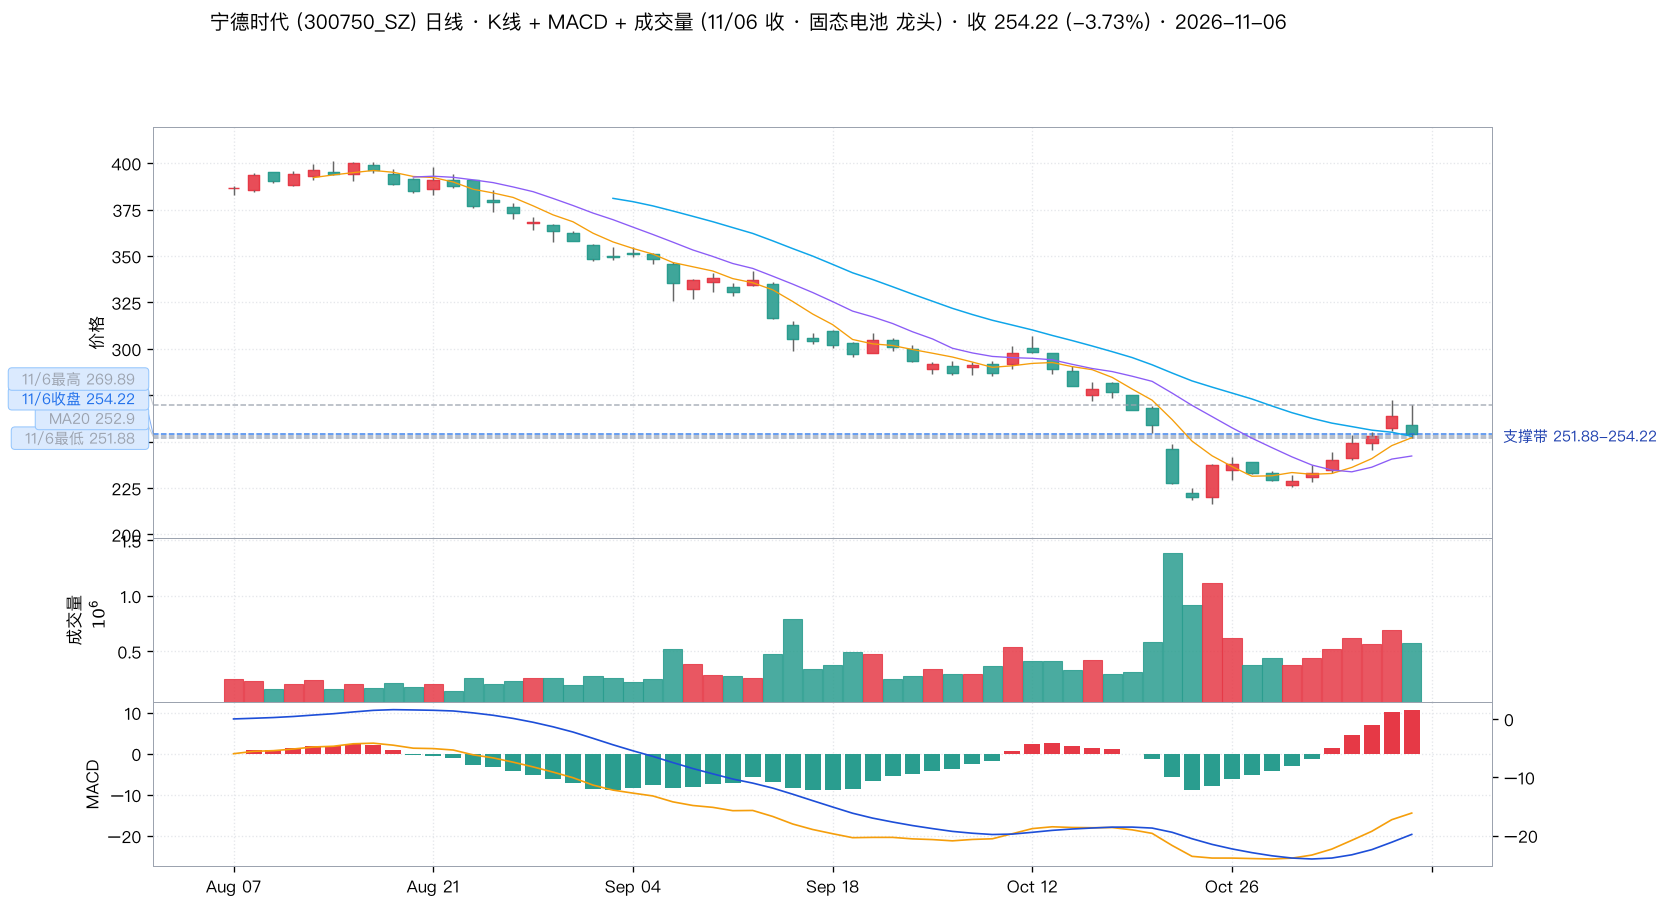
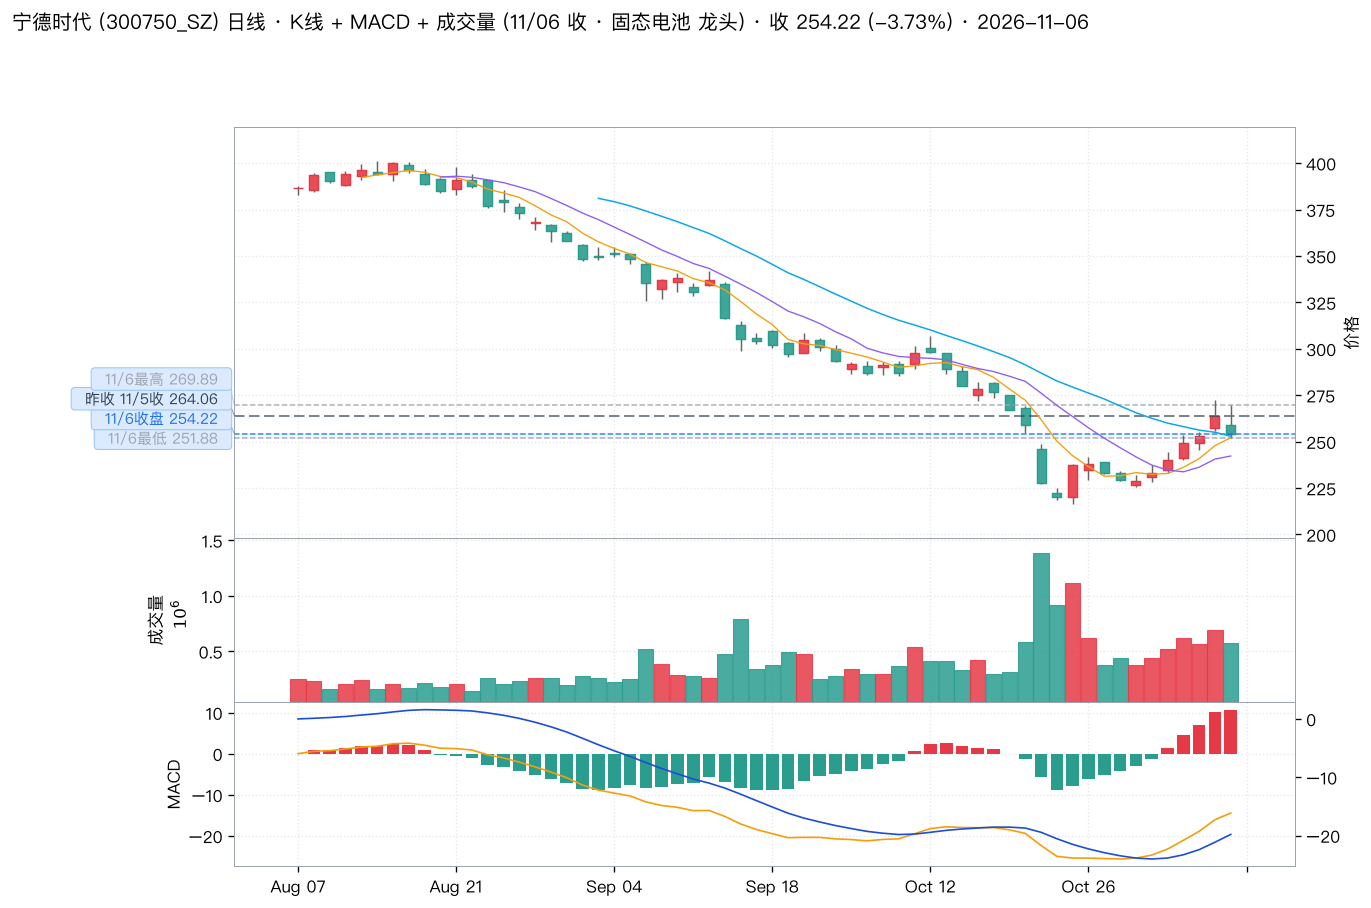
fix(图表): 补昨收参考线 + 低开高走标注，修正 K 线红绿误读
问题：上证图最后一根 K 线是红色，但当日 -1.10%，读者认为不符合红涨绿跌。

诊断（已用像素级标定复核，非配色 bug）
- 11/06 沪指开 3612.15 → 收 3649.18，**收 > 开，属阳线，红色正确**
  实体上下沿经水平虚线标定反推为 3648.57 / 3611.77，与真实 close/open 吻合（误差 < 0.6 点）
- 红涨绿跌的判定基准是「收 vs 开」，而「日涨跌幅」是「收 vs 昨收」，
  两者口径不同 ⇒ 低开高走日必然出现「日跌但 K 线红」
- 6 张图 K 线与成交量柱颜色全部复核通过，与 open/close 一致

根因是标注缺失：4 张图没画昨收线，读者看不到跳空缺口，
才会把低开高走的阳线误读成「当天在涨」。

修复
- 全部 6 张图补「昨收」点划线（深石板灰 #334155，与 MA5橙/MA10紫/MA20天蓝不冲突）
- 低开高走日自动加橙色标注框：「低开高走 收>X 但较昨收 -Y%」+ 箭头指向末根 K 线
- 主图价格刻度移到右侧（A股行情软件惯例），左侧只留给关键点位标签，
  解决标签压住 Y 轴刻度数字的问题
- 去掉冗余的 MA20 水平虚线（MA20 已是叠加曲线），删除会压住 K 线的支撑带文字
  （支撑带底纹保留，上下沿已在左侧标签中标注）
- draw_levels 支持 (文字, 颜色, 线型) 三元组

报告
- 第二节新增「先读懂这两张图的颜色口径」说明：红绿基准 = 收 vs 开，
  日涨跌幅 = 收 vs 昨收，并拿 11/06 沪指举例说明「日跌但 K 线红」
- 6 张图 caption 补昨收点位说明

校验
- 新增 scripts/check_kline_colors_20261108.py：逐图取最右实体像素颜色，
  与 Tushare open/close 交叉比对，6 张图 K 线 + 量柱全部 ✅
- HTML 标签闭合无异常，浏览器实测渲染正常

diff --git a/2026-11-08-wu2198-investment-report.html b/2026-11-08-wu2198-investment-report.html
@@ -226,10 +226,21 @@
 
 <h2>二、大盘与个股关键点位（K 线 + MACD + 成交量）</h2>
 
-<p class="meta">
-  关键点位已在 K 线图 <b>左侧以虚线标注</b>（📌 博主相关位 / 支撑位 / 均线位），
-  技术位（MA5/MA10/MA20）以细灰虚线叠加。K 线、成交量柱、MACD 柱均为 <b>A 股惯例：红涨绿跌</b>。
-</p>
+<div class="panel">
+  <h3 style="margin-top:0">📖 先读懂这两张图的颜色口径</h3>
+  <ul class="tight" style="margin-bottom:0">
+    <li><b>红涨绿跌的判定基准是「收盘价 vs 开盘价」（阳线 / 阴线），不是「收盘价 vs 昨收」</b>。
+      收 ≥ 开 = <b style="color:var(--bear)">阳线（红）</b>，收 &lt; 开 = <b style="color:var(--bull)">阴线（绿）</b>。
+      K 线、成交量柱、MACD 柱三处统一按此口径着色。</li>
+    <li><b>「日涨跌幅」是另一套口径</b>（收盘 vs 昨收），它决定涨跌数字本身，<b>不决定 K 线颜色</b>。
+      所以完全可能出现「<b>日跌但 K 线是红的</b>」—— 11/06 就是典型：
+      沪指开 3612.15 低开 -2.11%，收 3649.18，<b>收 &gt; 开故为阳线（红）</b>，
+      但相对昨收 3689.91 仍跌 <b>-1.10%</b>。这类「低开高走」日已用<b>橙色点划线标出昨收</b>，
+      并在图上直接标注，避免误读成「当天在涨」。</li>
+    <li>关键点位在 K 线图 <b>左侧以虚线标注</b>（📌 博主相关位 / 支撑位 / 昨收位），
+      MA5/MA10/MA20 为叠加曲线。<b>价格刻度移到右侧</b>，左侧只留给关键点位标签。</li>
+  </ul>
+</div>
 
 <h3>🟡 上证指数 · 000001.SH</h3>
 <div class="grid-4">
@@ -243,7 +254,7 @@
   但收盘 3649.18 未能站回 MA5 3654.28（差 5.10 点），MACD 柱 +10.76 虽为正、DIF 仍在零轴下方。
 </div>
 <img class="chart" src="/charts/000001_SH_20261108.png" alt="上证指数 000001.SH 日线 K线 + MACD + 成交量">
-<p class="chart-caption">关键点位：11/6 收盘 3649.18（博主 15:05 报「收在3649点」分毫不差）· 11/6 最低 3610.20 · 整数关口 3600.00 · 60D 低 3574.27 · MA20 3693.30</p>
+<p class="chart-caption">关键点位：<b>昨收 3689.91</b>（橙色点划线，11/06 低开 -2.11% 的跳空缺口基准）· 11/6 收盘 3649.18（博主 15:05 报「收在3649点」分毫不差）· 11/6 最低 3610.20 · 整数关口 3600.00 · 60D 低 3574.27 · MA20 3693.30</p>
 
 <h3>🔴 创业板指 · 399006.SZ</h3>
 <div class="grid-4">
@@ -257,7 +268,7 @@
   高成长赛道对外围冲击最敏感 —— 博主推荐的<b>端侧 + 算力租赁两条线当天全部被砸</b>。
 </div>
 <img class="chart" src="/charts/399006_SZ_20261108.png" alt="创业板指 399006.SZ 日线 K线 + MACD + 成交量">
-<p class="chart-caption">关键点位：11/6 收盘 2465.23 · 11/6 最低 2438.72 · 11/6 最高 2506.97 · MA20 2648.26</p>
+<p class="chart-caption">关键点位：<b>昨收 2566.80</b>（橙色点划线；开盘即全天最低 2438.72，跳空 -5.0%）· 11/6 最高 2506.97 · 11/6 收盘 2465.23 · 11/6 最低 2438.72 · MA20 2648.26</p>
 
 <h3>🟡 沪深300 · 000300.SH</h3>
 <div class="grid-4">
@@ -271,7 +282,7 @@
   <b>距 60D 低 3958.14 仅 -2.37%</b> —— 权重护盘弹药接近打光。
 </div>
 <img class="chart" src="/charts/000300_SH_20261108.png" alt="沪深300 000300.SH 日线 K线 + MACD + 成交量">
-<p class="chart-caption">关键点位：11/6 收盘 4054.28 · 11/6 最低 4013.79 · 11/6 最高 4069.07 · 整数关口 4100.00 · MA20 4112.86</p>
+<p class="chart-caption">关键点位：<b>昨收 4113.41</b>（橙色点划线）· 11/6 最高 4069.07 · 11/6 收盘 4054.28 · 11/6 最低 4013.79 · 整数关口 4100.00 · MA20 4112.86</p>
 
 <h3>🟢 科创50 · 000688.SH（补充）</h3>
 <p>11/06 收 <b class="down">1253.20（-2.60%）</b>，开 1221.67 / 高 1288.38 / 低 1219.53。
@@ -416,7 +427,7 @@
   动能仍在上行，是三条线里<b>唯一 MACD 零轴上方的标的</b>。成交 26.0 亿（前日 10.9 亿，<b>放量 2.4 倍</b>）。
 </div>
 <img class="chart" src="/charts/002929_SZ_20261108.png" alt="润建股份 002929.SZ 日线 K线 + MACD + 成交量">
-<p class="chart-caption">关键点位：11/6 收盘 2 板 63.11 · 11/6 最低 59.20 · 11/5 收盘 1 板 57.37 · MA20 51.05</p>
+<p class="chart-caption">关键点位：11/6 收盘 2 板 63.11 · 11/6 最低 59.20 · <b>昨收 57.37</b>（11/5 一板价，橙色点划线）· MA20 51.05</p>
 
 <h3>🟡 宁德时代 300750.SZ —— 固态电池龙头 · 位置最低</h3>
 <div class="grid-4">
@@ -430,7 +441,7 @@
   <b>距 60D 高 400.99 还有 -36.6% 空间，是三条线里位置最低、赔率最厚的。</b>
 </div>
 <img class="chart" src="/charts/300750_SZ_20261108.png" alt="宁德时代 300750.SZ 日线 K线 + MACD + 成交量">
-<p class="chart-caption">关键点位：11/6 收盘 254.22 · 11/6 最低 251.88 · 11/6 最高 269.89 · MA20 252.90</p>
+<p class="chart-caption">关键点位：<b>昨收 264.06</b>（橙色点划线）· 11/6 最高 269.89 · 11/6 收盘 254.22 · 11/6 最低 251.88 · MA20 252.90</p>
 
 <h3>🟡 芯原股份 688521.SH —— 端侧AI · 已破位，对照组</h3>
 <div class="grid-4">
@@ -445,7 +456,7 @@
   成交 25.2 亿放量下跌 —— <b>结构破坏，不参与</b>。
 </div>
 <img class="chart" src="/charts/688521_SH_20261108.png" alt="芯原股份 688521.SH 日线 K线 + MACD + 成交量">
-<p class="chart-caption">关键点位：11/6 收盘 105.30 · 11/6 最低 104.61 · 11/6 最高 111.61 · 11/5 收盘新高 113.00</p>
+<p class="chart-caption">关键点位：<b>昨收 113.00</b>（11/5 收盘新高，橙色点划线）· 11/6 最高 111.61 · 11/6 收盘 105.30 · 11/6 最低 104.61 · MA20 117.96</p>
 
 <div class="divider"></div>
 

diff --git a/scripts/gen_wu2198_report_20261108.py b/scripts/gen_wu2198_report_20261108.py
@@ -236,10 +236,21 @@ HTML = """<!DOCTYPE html>
 
 <h2>二、大盘与个股关键点位（K 线 + MACD + 成交量）</h2>
 
-<p class="meta">
-  关键点位已在 K 线图 <b>左侧以虚线标注</b>（📌 博主相关位 / 支撑位 / 均线位），
-  技术位（MA5/MA10/MA20）以细灰虚线叠加。K 线、成交量柱、MACD 柱均为 <b>A 股惯例：红涨绿跌</b>。
-</p>
+<div class="panel">
+  <h3 style="margin-top:0">📖 先读懂这两张图的颜色口径</h3>
+  <ul class="tight" style="margin-bottom:0">
+    <li><b>红涨绿跌的判定基准是「收盘价 vs 开盘价」（阳线 / 阴线），不是「收盘价 vs 昨收」</b>。
+      收 ≥ 开 = <b style="color:var(--bear)">阳线（红）</b>，收 &lt; 开 = <b style="color:var(--bull)">阴线（绿）</b>。
+      K 线、成交量柱、MACD 柱三处统一按此口径着色。</li>
+    <li><b>「日涨跌幅」是另一套口径</b>（收盘 vs 昨收），它决定涨跌数字本身，<b>不决定 K 线颜色</b>。
+      所以完全可能出现「<b>日跌但 K 线是红的</b>」—— 11/06 就是典型：
+      沪指开 3612.15 低开 -2.11%，收 3649.18，<b>收 &gt; 开故为阳线（红）</b>，
+      但相对昨收 3689.91 仍跌 <b>-1.10%</b>。这类「低开高走」日已用<b>橙色点划线标出昨收</b>，
+      并在图上直接标注，避免误读成「当天在涨」。</li>
+    <li>关键点位在 K 线图 <b>左侧以虚线标注</b>（📌 博主相关位 / 支撑位 / 昨收位），
+      MA5/MA10/MA20 为叠加曲线。<b>价格刻度移到右侧</b>，左侧只留给关键点位标签。</li>
+  </ul>
+</div>
 
 <h3>🟡 上证指数 · 000001.SH</h3>
 <div class="grid-4">
@@ -253,7 +264,7 @@ HTML = """<!DOCTYPE html>
   但收盘 3649.18 未能站回 MA5 3654.28（差 5.10 点），MACD 柱 +10.76 虽为正、DIF 仍在零轴下方。
 </div>
 <img class="chart" src="/charts/000001_SH_20261108.png" alt="上证指数 000001.SH 日线 K线 + MACD + 成交量">
-<p class="chart-caption">关键点位：11/6 收盘 3649.18（博主 15:05 报「收在3649点」分毫不差）· 11/6 最低 3610.20 · 整数关口 3600.00 · 60D 低 3574.27 · MA20 3693.30</p>
+<p class="chart-caption">关键点位：<b>昨收 3689.91</b>（橙色点划线，11/06 低开 -2.11% 的跳空缺口基准）· 11/6 收盘 3649.18（博主 15:05 报「收在3649点」分毫不差）· 11/6 最低 3610.20 · 整数关口 3600.00 · 60D 低 3574.27 · MA20 3693.30</p>
 
 <h3>🔴 创业板指 · 399006.SZ</h3>
 <div class="grid-4">
@@ -267,7 +278,7 @@ HTML = """<!DOCTYPE html>
   高成长赛道对外围冲击最敏感 —— 博主推荐的<b>端侧 + 算力租赁两条线当天全部被砸</b>。
 </div>
 <img class="chart" src="/charts/399006_SZ_20261108.png" alt="创业板指 399006.SZ 日线 K线 + MACD + 成交量">
-<p class="chart-caption">关键点位：11/6 收盘 2465.23 · 11/6 最低 2438.72 · 11/6 最高 2506.97 · MA20 2648.26</p>
+<p class="chart-caption">关键点位：<b>昨收 2566.80</b>（橙色点划线；开盘即全天最低 2438.72，跳空 -5.0%）· 11/6 最高 2506.97 · 11/6 收盘 2465.23 · 11/6 最低 2438.72 · MA20 2648.26</p>
 
 <h3>🟡 沪深300 · 000300.SH</h3>
 <div class="grid-4">
@@ -281,7 +292,7 @@ HTML = """<!DOCTYPE html>
   <b>距 60D 低 3958.14 仅 -2.37%</b> —— 权重护盘弹药接近打光。
 </div>
 <img class="chart" src="/charts/000300_SH_20261108.png" alt="沪深300 000300.SH 日线 K线 + MACD + 成交量">
-<p class="chart-caption">关键点位：11/6 收盘 4054.28 · 11/6 最低 4013.79 · 11/6 最高 4069.07 · 整数关口 4100.00 · MA20 4112.86</p>
+<p class="chart-caption">关键点位：<b>昨收 4113.41</b>（橙色点划线）· 11/6 最高 4069.07 · 11/6 收盘 4054.28 · 11/6 最低 4013.79 · 整数关口 4100.00 · MA20 4112.86</p>
 
 <h3>🟢 科创50 · 000688.SH（补充）</h3>
 <p>11/06 收 <b class="down">1253.20（-2.60%）</b>，开 1221.67 / 高 1288.38 / 低 1219.53。
@@ -426,7 +437,7 @@ HTML = """<!DOCTYPE html>
   动能仍在上行，是三条线里<b>唯一 MACD 零轴上方的标的</b>。成交 26.0 亿（前日 10.9 亿，<b>放量 2.4 倍</b>）。
 </div>
 <img class="chart" src="/charts/002929_SZ_20261108.png" alt="润建股份 002929.SZ 日线 K线 + MACD + 成交量">
-<p class="chart-caption">关键点位：11/6 收盘 2 板 63.11 · 11/6 最低 59.20 · 11/5 收盘 1 板 57.37 · MA20 51.05</p>
+<p class="chart-caption">关键点位：11/6 收盘 2 板 63.11 · 11/6 最低 59.20 · <b>昨收 57.37</b>（11/5 一板价，橙色点划线）· MA20 51.05</p>
 
 <h3>🟡 宁德时代 300750.SZ —— 固态电池龙头 · 位置最低</h3>
 <div class="grid-4">
@@ -440,7 +451,7 @@ HTML = """<!DOCTYPE html>
   <b>距 60D 高 400.99 还有 -36.6% 空间，是三条线里位置最低、赔率最厚的。</b>
 </div>
 <img class="chart" src="/charts/300750_SZ_20261108.png" alt="宁德时代 300750.SZ 日线 K线 + MACD + 成交量">
-<p class="chart-caption">关键点位：11/6 收盘 254.22 · 11/6 最低 251.88 · 11/6 最高 269.89 · MA20 252.90</p>
+<p class="chart-caption">关键点位：<b>昨收 264.06</b>（橙色点划线）· 11/6 最高 269.89 · 11/6 收盘 254.22 · 11/6 最低 251.88 · MA20 252.90</p>
 
 <h3>🟡 芯原股份 688521.SH —— 端侧AI · 已破位，对照组</h3>
 <div class="grid-4">
@@ -455,7 +466,7 @@ HTML = """<!DOCTYPE html>
   成交 25.2 亿放量下跌 —— <b>结构破坏，不参与</b>。
 </div>
 <img class="chart" src="/charts/688521_SH_20261108.png" alt="芯原股份 688521.SH 日线 K线 + MACD + 成交量">
-<p class="chart-caption">关键点位：11/6 收盘 105.30 · 11/6 最低 104.61 · 11/6 最高 111.61 · 11/5 收盘新高 113.00</p>
+<p class="chart-caption">关键点位：<b>昨收 113.00</b>（11/5 收盘新高，橙色点划线）· 11/6 最高 111.61 · 11/6 收盘 105.30 · 11/6 最低 104.61 · MA20 117.96</p>
 
 <div class="divider"></div>
 

diff --git a/scripts/make_wu2198_charts_20261108.py b/scripts/make_wu2198_charts_20261108.py
@@ -36,6 +36,7 @@ MC_BBOX = "#dbeafe"
 C_BLOG = "#1f6feb"   # 博主点位
 C_MA = "#9ca3af"     # 均线
 C_EXT = "#e11d48"    # 极值 / 硬门槛
+C_PREV = "#334155"   # 昨收参考线（跳空缺口）· 深石板灰，与各均线色不冲突
 
 for fp in [
     "/System/Library/Fonts/PingFang.ttc",
@@ -129,10 +130,15 @@ def draw_levels(ax, levels, color="#1f6feb", min_gap_frac=0.048, n_cols=2):
 
     col_x = [-0.006, -0.135]
     for v, lbl in ordered:
-        lc = color
+        lc, ls = color, "--"
         if isinstance(lbl, tuple):
-            lbl, lc = lbl
-        ax.axhline(v, color=lc, linestyle="--", linewidth=0.9, alpha=0.85, zorder=1)
+            # 元组形式：(文字, 颜色[, 线型])
+            parts = lbl
+            lbl = parts[0]
+            lc = parts[1]
+            if len(parts) > 2:
+                ls = parts[2]
+        ax.axhline(v, color=lc, linestyle=ls, linewidth=0.9, alpha=0.85, zorder=1)
         c = col_of[v]
         y = pos[v]
         x = col_x[c]
@@ -208,14 +214,29 @@ def plot_one(ts_code: str, name: str, levels, out_path: Path, days: int = 60,
         extra = (hi_b - lo_b) * 0.045
         ax_main.set_ylim(lo_b - extra, hi_b + extra)
 
+    # 低开高走提示：收 > 开（阳线/红）但相对昨收下跌 —— 跳空缺口，读者容易误读
+    try:
+        _d = fetch_daily(ts_code, days=120)
+        if len(_d) >= 2:
+            _o, _c, _pc = _d["Open"].iloc[-1], _d["Close"].iloc[-1], _d["Close"].iloc[-2]
+            if _c >= _o and _c < _pc:
+                _gap = (_c / _pc - 1) * 100
+                ax_main.annotate(
+                    f"低开高走\n收>{_o:.2f} 但较昨收 {_gap:.2f}%",
+                    xy=(len(df) - 1, _d["High"].iloc[-1]),
+                    xytext=(len(df) - 9, _d["High"].iloc[-1] + (_d["High"].max() - _d["Low"].min()) * 0.10),
+                    fontsize=8.5, color="#b45309",
+                    bbox=dict(boxstyle="round,pad=0.32", fc="#fffbeb", ec="#f59e0b", lw=0.9),
+                    arrowprops=dict(arrowstyle="->", color="#f59e0b", lw=1.0),
+                    zorder=6,
+                )
+    except Exception:
+        pass
+
     if band:
         lo, hi, blbl = band
+        # 支撑带用浅蓝底纹表示；上下沿已在左侧标签中标注，不再叠加文字（避免遮挡）
         ax_main.axhspan(lo, hi, color="#bfdbfe", alpha=0.18, zorder=0)
-        ax_main.text(
-            1.008, (lo + hi) / 2, f"支撑带 {blbl}", va="center", ha="left",
-            fontsize=9, color="#1e40af", zorder=4,
-            transform=ax_main.get_yaxis_transform(),
-        )
     draw_levels(ax_main, levels)
 
     ax_vol = axes[2]
@@ -226,6 +247,15 @@ def plot_one(ts_code: str, name: str, levels, out_path: Path, days: int = 60,
         ax_vol.patches[i].set_alpha(0.85)
 
     axes[3].axhline(0, color="#9ca3af", linewidth=0.6, linestyle="-")
+
+    # 左侧只留给「关键点位」标签：主图价格刻度与轴标题移到右侧（A股行情软件惯例）
+    ax_main.yaxis.tick_right()
+    ax_main.yaxis.set_label_position("right")
+    # 三个面板整体右移，给轴外的关键位标签腾出空间（否则会压住 Y 轴刻度数字）
+    _shift = 0.075
+    for _ax in axes:
+        _pos = _ax.get_position()
+        _ax.set_position([_pos.x0 + _shift, _pos.y0, _pos.width - _shift, _pos.height])
     fig.savefig(out_path, dpi=120, facecolor=MC_FACE, bbox_inches="tight")
     plt.close(fig)
     print(f"  [ok] {out_path.name}  ({len(df)} 根 K线, 收 {last_close:.2f} {pct_s})")
@@ -255,32 +285,36 @@ if __name__ == "__main__":
     sufx = " (11/06 收 · 周末休市)"
     targets = [
         ("000001.SH", "上证指数",
-         [(3693.30, ("MA20", C_MA)), (3649.18, ("11/6收盘", C_BLOG)),
+         [(3689.91, ("昨收 11/5收", C_PREV, (0, (7, 3)))),
+          (3649.18, ("11/6收盘", C_BLOG)),
           (3610.20, ("11/6最低", C_MA)), (3600.00, ("整数关口", C_EXT)),
           (3574.27, ("60D低", C_EXT))],
          (3574.27, 3610.20, "3574-3610"), sufx),
         ("399006.SZ", "创业板指",
-         [(2648.26, ("MA20", C_MA)), (2506.97, ("11/6最高", C_MA)),
+         [(2566.80, ("昨收 11/5收", C_PREV, (0, (7, 3)))),
+          (2506.97, ("11/6最高", C_MA)),
           (2465.23, ("11/6收盘", C_BLOG)), (2438.72, ("11/6最低", C_MA))],
          (2438.72, 2465.23, "2439-2465"), sufx),
         ("000300.SH", "沪深300",
-         [(4112.86, ("MA20", C_MA)), (4069.07, ("11/6最高", C_MA)),
+         [(4113.41, ("昨收 11/5收", C_PREV, (0, (7, 3)))),
+          (4069.07, ("11/6最高", C_MA)),
           (4054.28, ("11/6收盘", C_BLOG)), (4013.79, ("11/6最低", C_MA)),
           (4100.00, ("整数关口", C_EXT))],
          (4013.79, 4054.28, "4014-4054"), sufx),
         ("002929.SZ", "润建股份",
-         [(51.06, ("MA20", C_MA)), (57.37, ("11/5收盘1板", C_MA)),
+         [(57.37, ("昨收 11/5收", C_PREV, (0, (7, 3)))),
           (63.11, ("11/6收盘2板", C_BLOG)), (59.20, ("11/6最低", C_MA))],
          (57.37, 59.20, "57.37-59.20"),
          " (11/06 收 · 算力租赁 两连板)"),
         ("300750.SZ", "宁德时代",
-         [(252.90, ("MA20", C_MA)), (269.89, ("11/6最高", C_MA)),
+         [(264.06, ("昨收 11/5收", C_PREV, (0, (7, 3)))),
+          (269.89, ("11/6最高", C_MA)),
           (254.22, ("11/6收盘", C_BLOG)), (251.88, ("11/6最低", C_MA))],
          (251.88, 254.22, "251.88-254.22"),
          " (11/06 收 · 固态电池 龙头)"),
         ("688521.SH", "芯原股份",
          [(104.61, ("11/6最低", C_MA)), (105.30, ("11/6收盘", C_BLOG)),
-          (113.00, ("11/5收盘新高", C_MA)), (111.61, ("11/6最高", C_MA))],
+          (113.00, ("昨收 11/5收", C_PREV, (0, (7, 3)))), (111.61, ("11/6最高", C_MA))],
          (104.61, 105.30, "104.61-105.30"),
          " (11/06 收 · 端侧AI 已被打回)"),
     ]

diff --git a/scripts/check_kline_colors_20261108.py b/scripts/check_kline_colors_20261108.py
@@ -1,0 +1,97 @@
+"""校验各图表最后一根 K 线的颜色是否与 open/close 一致（A 股惯例：close>=open 红）。"""
+import json
+import os
+import subprocess
+from pathlib import Path
+
+import numpy as np
+import tushare as ts
+from PIL import Image
+
+TOKEN = os.environ.get("TUSHARE_TOKEN", "a4d50551c45b1f214ca32edbde1ba21241d5bb37c9f66f66a91025b3")
+pro = ts.pro_api(TOKEN)
+CHARTS = Path("/Users/maoling/workspace/mnote.github.io/charts")
+MC_UP = (230, 57, 70)
+MC_DOWN = (42, 157, 143)
+
+
+def close_mask(a, rgb, tol=25):
+    r, g, b = a[:, :, 0].astype(int), a[:, :, 1].astype(int), a[:, :, 2].astype(int)
+    return (abs(r - rgb[0]) < tol) & (abs(g - rgb[1]) < tol) & (abs(b - rgb[2]) < tol)
+
+
+def clusters(cols, gap=3):
+    if not len(cols):
+        return []
+    out, s, prev = [], cols[0], cols[0]
+    for c in cols[1:]:
+        if c - prev > gap:
+            out.append((s, prev))
+            s = c
+        prev = c
+    out.append((s, prev))
+    return out
+
+
+def ohlc(code):
+    is_idx = code.endswith((".SH", ".SZ")) and code.startswith(("000", "399"))
+    df = (pro.index_daily(ts_code=code, start_date="20260101", end_date="20261108")
+          if code in {"000001.SH", "399006.SZ", "000300.SH"}
+          else pro.daily(ts_code=code, start_date="20260101", end_date="20261108"))
+    df = df.sort_values("trade_date")
+    return df
+
+
+results = []
+for png in sorted(CHARTS.glob("*_20261108.png")):
+    code = png.name.split("_")[0] + "." + png.name.split("_")[1].split("_")[0]
+    df = ohlc(code)
+    last = df.iloc[-1]
+    prev = df.iloc[-2]
+    expect_up = last["close"] >= last["open"]
+
+    im = Image.open(png).convert("RGB")
+    a = np.array(im)
+    red = close_mask(a, MC_UP)
+    green = close_mask(a, MC_DOWN)
+    # 主图区：找出最右侧实体簇（红/绿中 x 更大者所在簇）
+    main_red, main_green = red[:520, :], green[:520, :]
+    cr = clusters(np.where(main_red.any(axis=0))[0])
+    cg = clusters(np.where(main_green.any(axis=0))[0])
+    last_red = cr[-1] if cr else None
+    last_green = cg[-1] if cg else None
+    x_red = last_red[1] if last_red else -1
+    x_green = last_green[1] if last_green else -1
+    is_red = x_red > x_green
+    # 成交量面板最右侧柱
+    vr = np.where(red[540:700, :].any(axis=0))[0]
+    vg = np.where(green[540:700, :].any(axis=0))[0]
+    vol_is_red = (vr.max() if len(vr) else -1) > (vg.max() if len(vg) else -1)
+
+    ok = (is_red == expect_up) and (vol_is_red == expect_up)
+    results.append({
+        "code": code, "png": png.name,
+        "date": last["trade_date"],
+        "open": round(float(last["open"]), 2), "close": round(float(last["close"]), 2),
+        "prev_close": round(float(prev["close"]), 2),
+        "pct_chg": round(float(last["pct_chg"]), 2),
+        "expect_red": bool(expect_up), "chart_red": bool(is_red), "vol_red": bool(vol_is_red),
+        "match": bool(ok),
+    })
+
+print(f"{'代码':<12}{'日期':<10}{'开':>10}{'收':>10}{'昨收':>10}{'日涨跌':>9}  "
+      f"{'应为':<6}{'K线':<6}{'量柱':<6}{'一致'}")
+for r in results:
+    print(f"{r['code']:<12}{r['date']:<10}{r['open']:>10}{r['close']:>10}"
+          f"{r['prev_close']:>10}{r['pct_chg']:>8}%  "
+          f"{'红' if r['expect_red'] else '绿':<6}"
+          f"{'红' if r['chart_red'] else '绿':<6}"
+          f"{'红' if r['vol_red'] else '绿':<6}"
+          f"{'✅' if r['match'] else '❌'}")
+
+print()
+for r in results:
+    if r["expect_red"] and r["pct_chg"] < 0:
+        print(f"⚠  {r['code']} {r['date']}: 日跌 {r['pct_chg']}% 但收({r['close']})>开({r['open']}) "
+              f"→ 低开高走，按开/收判定为阳线(红)")
+Path("/tmp/kcolor_check.json").write_text(json.dumps(results, ensure_ascii=False, indent=2))
